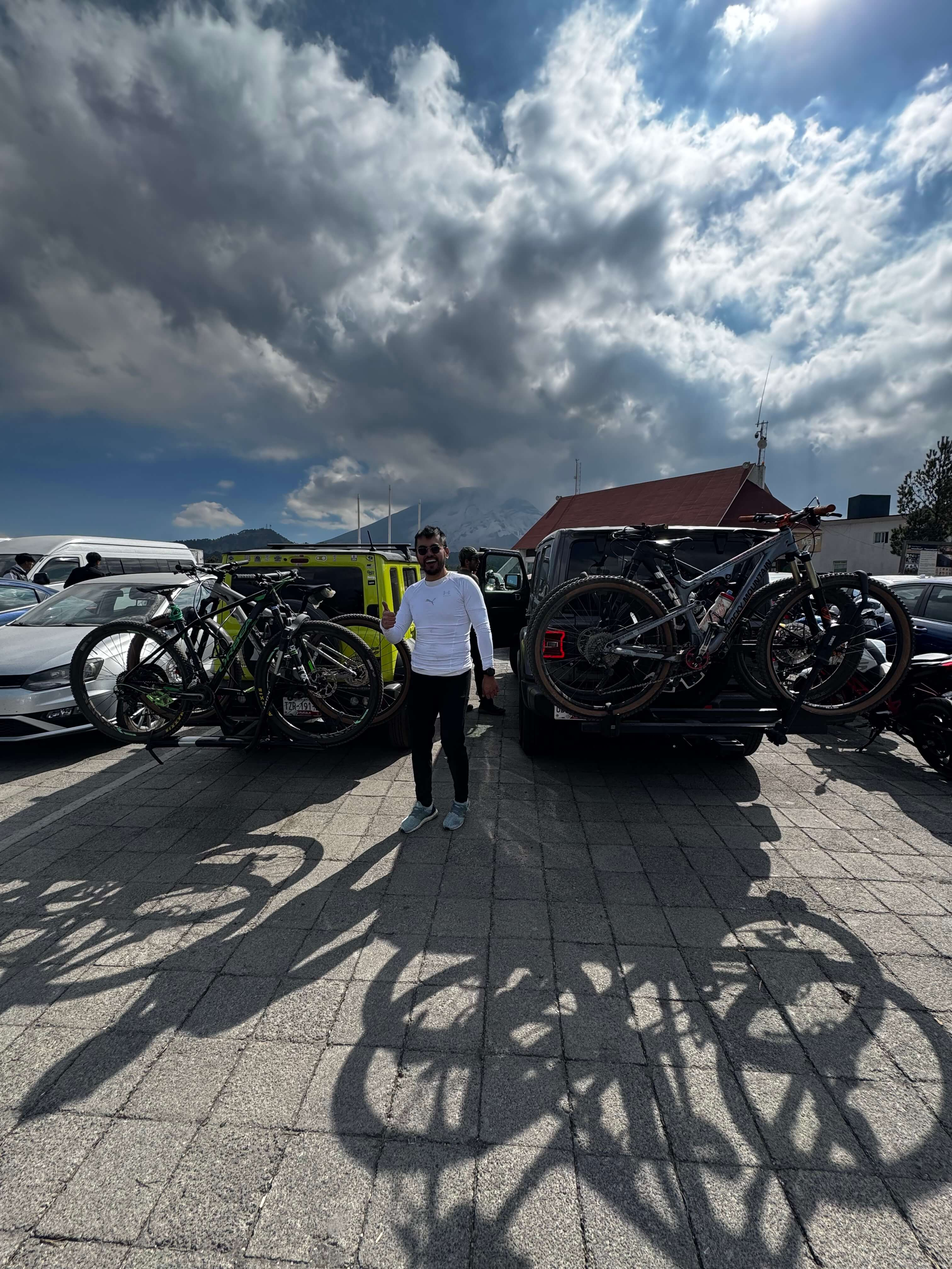
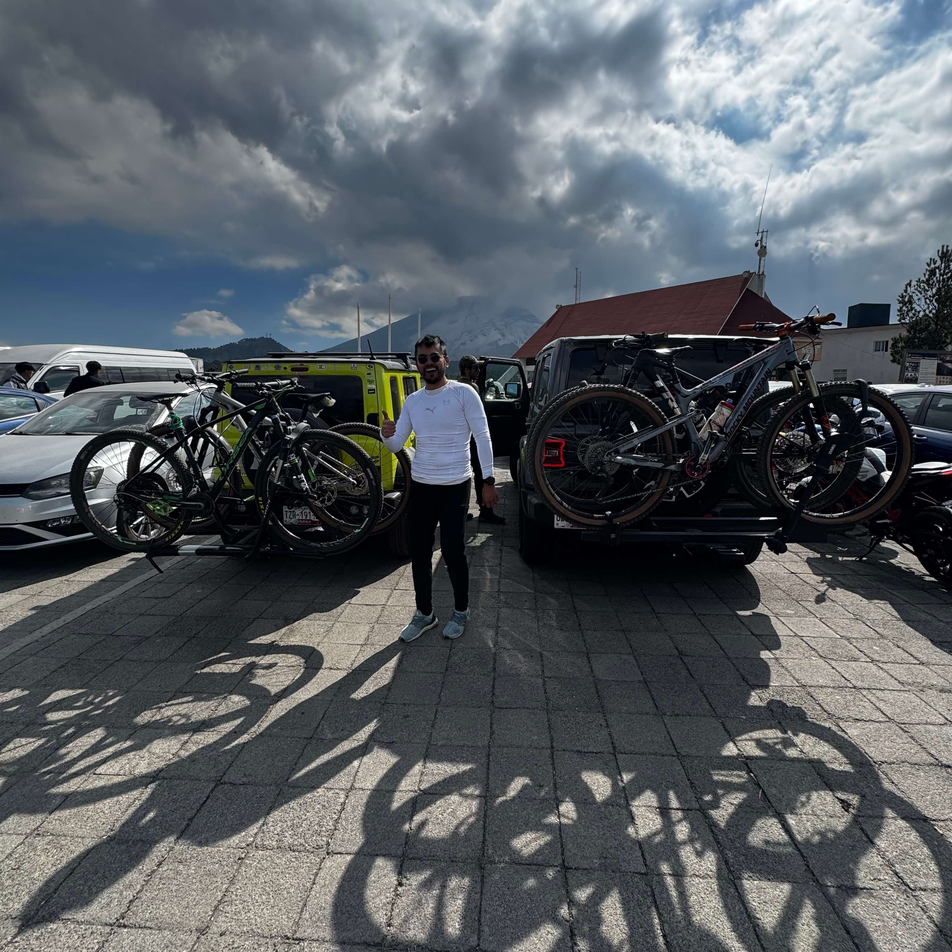
about and ipmages

diff --git a/src/app/app.component.ts b/src/app/app.component.ts
@@ -1,26 +1,36 @@
-import { Component } from '@angular/core';
-import { HeroComponent } from './hero/hero.component';
-import { ServicesComponent } from './services/services.component';
-import { TrustComponent } from './trust/trust.component';
-import { PricesComponent } from './prices/prices.component';
-import { StepsComponent } from './steps/steps.component';
-import { DatesComponent } from './dates/dates.component';
-import { GalleryComponent } from './gallery/gallery.component';
-import { FooterComponent } from './footer/footer.component';
-import { WhatsappButtonComponent } from './whatsapp-button/whatsapp-button.component';
+import { Component } from "@angular/core";
+import { HeroComponent } from "./hero/hero.component";
+import { ServicesComponent } from "./services/services.component";
+import { TrustComponent } from "./trust/trust.component";
+import { PricesComponent } from "./prices/prices.component";
+import { StepsComponent } from "./steps/steps.component";
+import { DatesComponent } from "./dates/dates.component";
+import { GalleryComponent } from "./gallery/gallery.component";
+import { FooterComponent } from "./footer/footer.component";
+import { WhatsappButtonComponent } from "./whatsapp-button/whatsapp-button.component";
+import { AboutComponent } from "./about/about.component";
 
 // Aquí solo se ordenan las secciones. Para agregar una nueva:
 // 1) crea su carpeta/componente  2) impórtalo abajo  3) ponlo en el template.
 @Component({
-  selector: 'app-root',
+  selector: "app-root",
   imports: [
-    HeroComponent, ServicesComponent, TrustComponent, PricesComponent, StepsComponent,
-    DatesComponent, GalleryComponent, FooterComponent, WhatsappButtonComponent,
+    HeroComponent,
+    ServicesComponent,
+    TrustComponent,
+    PricesComponent,
+    StepsComponent,
+    DatesComponent,
+    GalleryComponent,
+    FooterComponent,
+    WhatsappButtonComponent,
+    AboutComponent,
   ],
   template: `
     <app-hero />
     <main>
       <app-dates />
+      <app-about />
       <app-gallery />
       <app-services />
       <app-trust />

diff --git a/src/app/about/about.component.html b/src/app/about/about.component.html
@@ -1,0 +1,23 @@
+<section>
+    <div class="wrap">
+        <h2>Acerca de mí 🚵♂</h2>
+        <div class="card about">
+            <p>¡Hola! Soy Tony, ciclista de montaña y amante de la aventura. Desde hace aproximadamente 5 años, el MTB
+                forma parte de mi vida y me ha llevado a descubrir nuevas rutas, superar retos y compartir grandes
+                experiencias con otros ciclistas.</p>
+            <p>A lo largo de este tiempo he recorrido diferentes senderos y montañas, desde La Malinche y Piedra Grande
+                hasta rutas que ponen a prueba nuestra resistencia y habilidades sobre la bicicleta. Esta experiencia
+                también me ha enseñado la importancia de cuidar nuestro equipo, preparar cada salida y disfrutar de la
+                aventura con responsabilidad.</p>
+            <p>Este proyecto nace de mi pasión por el ciclismo y de las ganas de seguir compartiendo el camino con más
+                personas. Sé lo importante que es nuestra bicicleta, por eso procuro transportarla con el cuidado y la
+                atención que merece, utilizando un sistema de rack diseñado para llevar bicicletas de forma segura.</p>
+            <p>Mi objetivo es ofrecerte una alternativa práctica, confiable y cercana para llegar a tus rodadas y
+                competencias, sin que tengas que preocuparte por cómo transportar tu bicicleta. Porque antes de
+                ofrecerte un servicio, soy un ciclista más que entiende la emoción de una buena rodada y todo lo que hay
+                detrás de cada reto.</p>
+            <p class="cierre">Nos vemos en la montaña. ¡Tú disfruta la rodada, que del transporte me encargo yo! 🚵♂⛰
+            </p>
+        </div>
+    </div>
+</section>

diff --git a/src/index.html b/src/index.html
@@ -1,17 +1,30 @@
 <!doctype html>
 <html lang="es">
+
 <head>
   <meta charset="utf-8">
   <title>TonyAdventures · Rodadas, barredora y transporte de bicis en Puebla</title>
   <base href="/">
   <meta name="viewport" content="width=device-width, initial-scale=1, viewport-fit=cover">
-  <meta name="description" content="Transporte de bicis, rodadas o barredora en Puebla. Rutas previamente scouteadas en bicicleta.">
+  <meta name="description"
+    content="Transporte de bicis, rodadas o barredora en Puebla. Rutas previamente scouteadas en bicicleta.">
   <meta property="og:title" content="TonyAdventures · Rodadas y paseos en Puebla">
   <meta property="og:description" content="Tú pedaleas. Yo me encargo del resto.">
   <link rel="icon" type="image/svg+xml" href="favicon.svg">
-  <link rel="stylesheet" href="https://fonts.googleapis.com/css2?family=Bricolage+Grotesque:wght@600;800&family=Figtree:wght@400;600&display=swap">
+  <link rel="stylesheet"
+    href="https://fonts.googleapis.com/css2?family=Bricolage+Grotesque:wght@600;800&family=Figtree:wght@400;600&display=swap">
+  <script async src="https://pagead2.googlesyndication.com/pagead/js/adsbygoogle.js?client=ca-pub-7532304857455175"
+    crossorigin="anonymous"></script>
 </head>
+
 <body>
   <app-root></app-root>
+  <script>
+    fetch("https://abacus.jasoncameron.dev/hit/tonyadventures/paseos")
+      .then(r => r.json())
+      .then(d => document.getElementById("visitas").textContent = d.value)
+      .catch(() => { });
+  </script>
 </body>
+
 </html>

diff --git a/src/app/data.ts b/src/app/data.ts
@@ -6,7 +6,7 @@ export const INSTAGRAM = 'jimny_con_tony';   // sin @
 export const wa = (msg: string) => `https://wa.me/${WHATSAPP}?text=${encodeURIComponent(msg)}`;
 
 // Fotos: ponlas en /public/fotos y agrégalas así: 'fotos/rodada1.jpg'
-export const PHOTOS: string[] = ['fotos/1.jpeg', 'fotos/2.jpeg', 'fotos/3.jpeg', 'fotos/4.jpeg'];
+export const PHOTOS: string[] = ['fotos/1.jpeg', 'fotos/2.jpeg', 'fotos/3.jpeg', 'fotos/4.jpeg', 'fotos/5.jpeg', 'fotos/6.jpeg', 'fotos/7.jpeg', 'fotos/8.jpeg', 'fotos/9.jpeg'];
 
 export const SERVICES = [
   { icon: '🚙', title: 'Transporte de bicis', text: 'Llevamos tu bici y a ti a la carrera o ruta. Cupo de 4 bicis (si soy guia 3 bicis).' },

diff --git a/src/app/trust/trust.component.ts b/src/app/trust/trust.component.ts
@@ -6,8 +6,8 @@ import { Component } from '@angular/core';
   <section>
     <div class="wrap">
       <div class="trust">
-        <h2>Rutas scouteadas en bici</h2>
-        <p>Las rutas son previamente scouteadas con bicicleta para verificar su seguridad y tranquilidad.</p>
+        <h2>Rutas scouteadas en bici y tranquilidad de herramienta</h2>
+        <p>Las rutas son previamente scouteadas con bicicleta para verificar su seguridad y tranquilidad. LLevo todo lo necesario para solucionar algún inconveniente en la ruta.</p>
       </div>
     </div>
   </section>`,

diff --git a/src/app/footer/footer.component.ts b/src/app/footer/footer.component.ts
@@ -7,8 +7,9 @@ import { INSTAGRAM } from '../data';
   <footer>
     <div class="wrap">
       <p><strong>TonyAdventures</strong> · Cholula / Puebla</p>
-      <p><a [href]="'https://instagram.com/' + instagram">Instagram &#64;{{ instagram }}</a></p>
+      <p>Instagram <a [href]="'https://instagram.com/' + instagram"> &#64;{{ instagram }}</a></p>
     </div>
+    <p>👀 Visitas: <span id="visitas">…</span></p>
   </footer>`,
 })
 export class FooterComponent { instagram = INSTAGRAM; }

diff --git a/src/app/about/about.component.ts b/src/app/about/about.component.ts
@@ -1,0 +1,12 @@
+import { Component } from '@angular/core';
+
+@Component({
+  selector: 'app-about',
+  templateUrl: './about.component.html',
+  styles: [`
+    .about p { margin: 0 0 14px; }
+    .about p:last-child { margin-bottom: 0; }
+    .cierre { font-weight: 600; font-size: 19px; }
+  `],
+})
+export class AboutComponent {}
